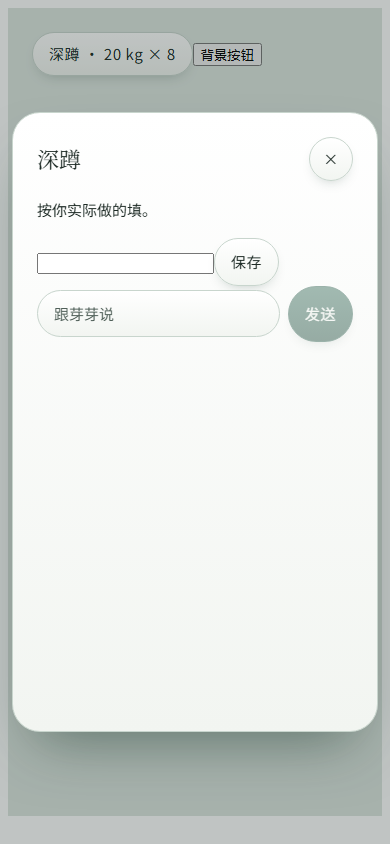
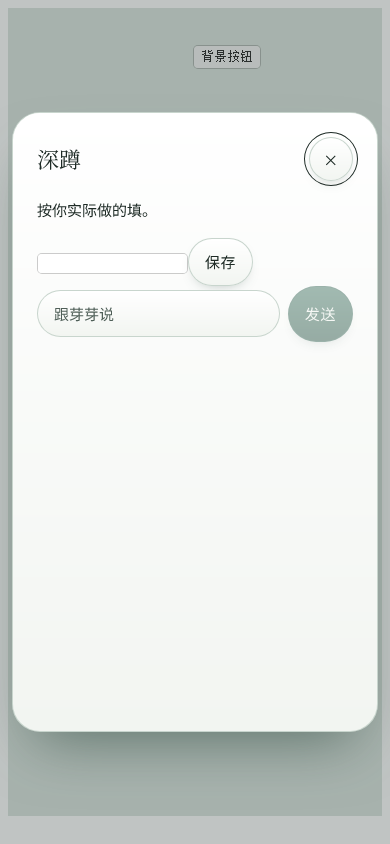
fix(ui): contain modal keyboard focus in WebKit

diff --git a/src/ui/components/common/MorphPanel.tsx b/src/ui/components/common/MorphPanel.tsx
@@ -39,6 +39,22 @@ export function MorphPanel({ open, onClose, triggerRef, title, closeLabel = '关
     }
     return () => { cancelled = true; animation?.cancel(); reveal(); };
   }, [open, triggerRef]);
+  useEffect(() => {
+    // WebKit can move focus to the document when the focused submit button becomes disabled.
+    // Capture Tab at document level so this case is contained as well as ordinary wraparound.
+    const containTab = (event: KeyboardEvent) => {
+      const panel = dialog.current;
+      if (event.key !== 'Tab' || !panel?.open) return;
+      const controls = Array.from(panel.querySelectorAll<HTMLElement>('button, a[href], input, select, textarea, [tabindex], [contenteditable="true"]'))
+        .filter(element => element.tabIndex >= 0 && !element.matches(':disabled') && !element.closest('[inert]') && element.getClientRects().length > 0 && getComputedStyle(element).visibility !== 'hidden');
+      event.preventDefault();
+      const index = controls.indexOf(document.activeElement as HTMLElement);
+      const next = index < 0 ? (event.shiftKey ? controls.length - 1 : 0) : (index + (event.shiftKey ? -1 : 1) + controls.length) % controls.length;
+      (controls[next] ?? panel).focus({ preventScroll: true });
+    };
+    document.addEventListener('keydown', containTab, true);
+    return () => document.removeEventListener('keydown', containTab, true);
+  }, []);
   useEffect(() => () => { if (dialog.current?.open) dialog.current.close(); if (triggerRef.current?.isConnected) triggerRef.current.focus({ preventScroll: true }); }, [triggerRef]);
   return <dialog ref={dialog} className="v8-morph" aria-labelledby={titleId} aria-modal="true"
     onCancel={event => { event.preventDefault(); onClose(); }}
@@ -49,4 +65,5 @@ export function MorphPanel({ open, onClose, triggerRef, title, closeLabel = '关
     </div>
   </dialog>;
 }
+
 

diff --git a/tests/e2e/v8-components.spec.ts b/tests/e2e/v8-components.spec.ts
@@ -12,6 +12,8 @@ test('modal animation, keyboard containment, composer and focus restoration', as
  await expect(page.getByRole('textbox',{name:'跟芽芽说'})).toHaveValue('');
  await page.keyboard.press('Tab');
  expect(await page.evaluate(()=>document.querySelector('dialog')?.contains(document.activeElement))).toBe(true);
+ await page.getByRole('button',{name:'关闭',exact:true}).focus(); await page.keyboard.press('Shift+Tab'); await expect(page.getByRole('textbox',{name:'跟芽芽说'})).toBeFocused();
+ await page.keyboard.press('Tab'); await expect(page.getByRole('button',{name:'关闭',exact:true})).toBeFocused();
  await page.keyboard.press('Escape'); await expect(dialog).not.toBeVisible(); await expect(trigger).toBeFocused();
  await expect(page.getByRole('status')).not.toBeVisible({timeout:3500});
 });
@@ -34,5 +36,6 @@ test('close measures the current trigger and IME Enter does not send', async({pa
  const last=await page.getByRole('dialog').evaluate(el=>(el.getAnimations()[0].effect as KeyframeEffect)?.getKeyframes().at(-1));
  expect(last?.top).toBe(`${rect!.y}px`); await expect(trigger).toBeFocused();
 });
+
 
 
